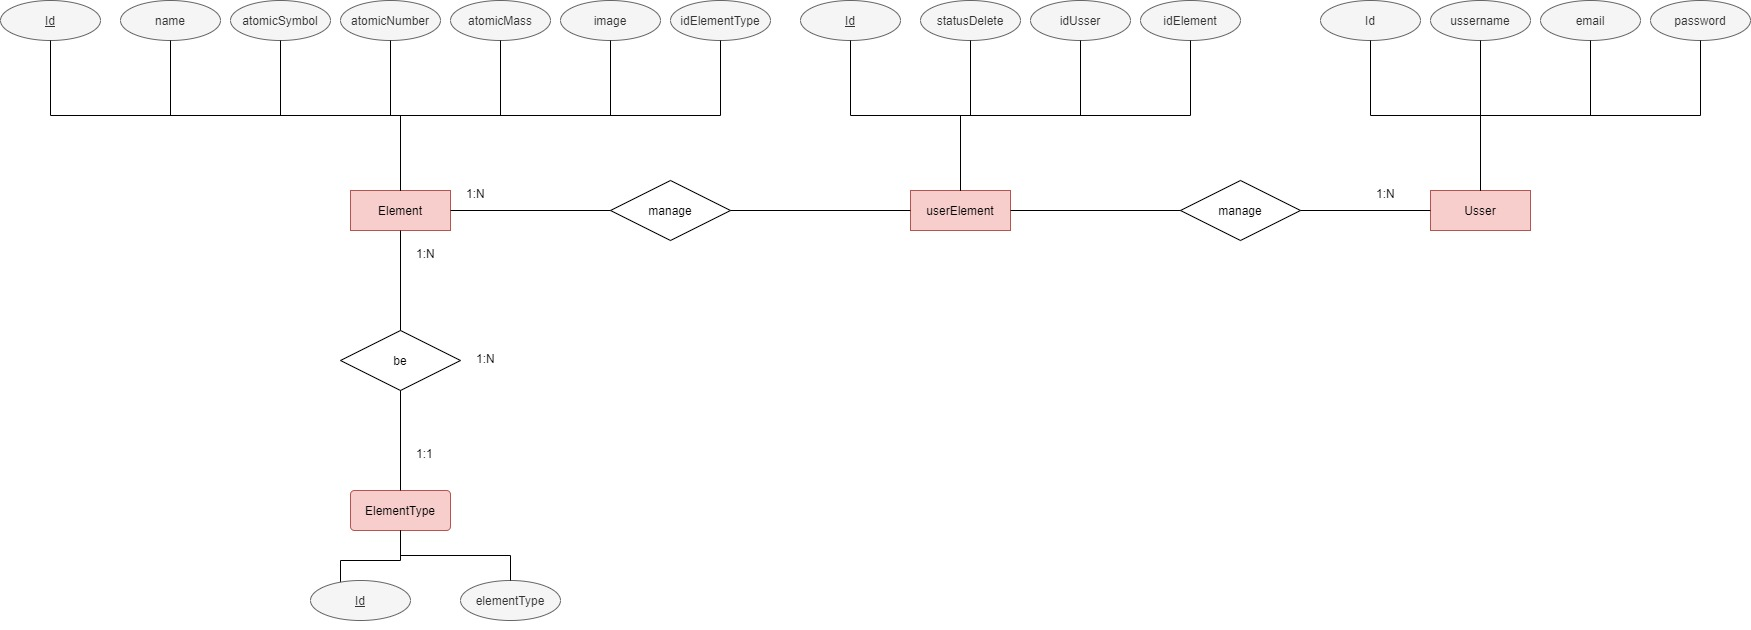
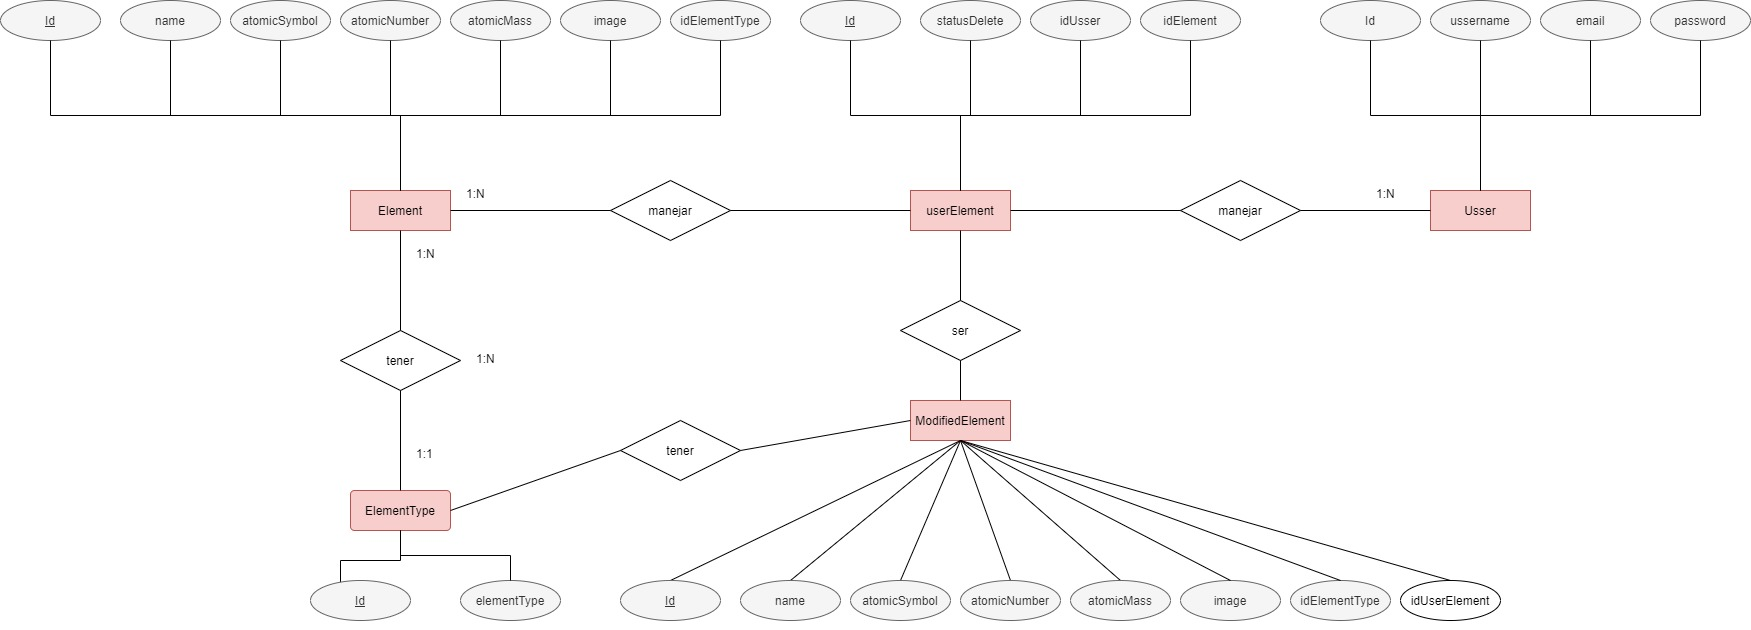
Modificados los endpoints para userElement. Agregado modified.js. Agregada una tabla al diagrama de BBDD

diff --git a/Backend-Tabla/controllers/userElements.js b/Backend-Tabla/controllers/userElements.js
@@ -1,3 +1,4 @@
+
 const  sequelize  = require('sequelize');
 const Op  =sequelize.Op;
 
@@ -5,6 +6,7 @@ const db = require('../models/index');
 const userElement = db.userElement;
 const element = db.element;
 const elementType = db.elementType;
+const modified = db.modified;
 exports.createElement = async (req,res) =>{
     try {
         const {body} = req;
@@ -58,14 +60,24 @@ exports.getElementsPro = async (req,res) =>{
                     statusDelete:false,
                 }
             });
-            
             const elements = [];
+            let findModi;
             for (let i = 0; i < userElements.length; i++) {
-                elements[i]= await element.findByPk(userElements[i].elementId,{
-                    include:{model:elementType},
+                findModi = await modified.findOne({
+                    where:{userElementId:userElements[i].id},
+                    include:{model:elementType}
                 });
-    
+                if(!findModi){
+                    elements[i]= await element.findByPk(userElements[i].elementId,{
+                        include:{model:elementType},
+                    });
+        
+                }else{
+                    elements[i] = findModi;
+                }
+                
             }
+            
             
             const errors = {
                 1 :" No se encontró ese dato del elemento",
@@ -83,28 +95,43 @@ exports.getElementsPro = async (req,res) =>{
                 return res.status(404).send({message: errors[result]})
             }
         }
-        //127.0.0.1:3000/api/userElement?busqueda=Hidrógeno&Oxígeno&...
-        const {busqueda} = req.query;
+        //127.0.0.1:3000/api/userElement?busqueda=Hidrógeno&busqueda=Oxígeno&...
+        const {busqueda} = req.query;    
         if(busqueda){
-            const result=await obtenerVariosValores(busqueda);
+            const result=await obtenerVariosValores(busqueda,user.id);
+            return res.status(200).send(result);
         }
-        
+        console.log("a");
+
         ////127.0.0.1:3000/api/userElement
-        const elements = await userElement.findAll({
+        const findUE = await userElement.findAll({
             where:{
                 userId:user.id,
                 statusDelete:false,
             },
         });
-        console.log(elements)
+        
         const get = [];
-        for (let i = 0; i < elements.length; i++) {
-                get[i]= await element.findByPk(elements[i].elementId,{
+        let findModi;
+
+        for (let i = 0; i < findUE.length; i++) {
+                findModi = await modified.findOne({
+                    where:{userElementId:findUE[i].id,
+                          statusDelete:false},
                     include:{model:elementType},
                 });
+                
+                if(!findModi){
+                    get[i]= await element.findByPk(findUE[i].elementId,{
+                        include:{model:elementType},
+                    });
+                }else{
+                    get[i] = findModi;
+                }
+                
     
         }
-        const ordElements = await ordenNumAtomico('ASC',get)
+        const ordElements = await ordenNumAtomico('ASC',get);
         return res.status(200).send(ordElements);
 
     } catch (error) {
@@ -125,40 +152,136 @@ exports.getElementsNr = async (req,res) =>{
         
     }
 }
-async function obtenerVariosValores(busqueda){
+async function obtenerVariosValores(busqueda,idUser){
     const result=[];
-    for (let i = 0; i < busqueda.length; i++) {
-        let find = await element.findOne({
-            where:{name:busqueda[i]}
+   
+    if(typeof busqueda !== 'string'){
+        for (let i = 0; i < busqueda.length; i++) {
+            let findModi = await modified.findOne({
+                where:{name:busqueda[i],statusDelete:false},
+                include:{model:elementType}
+            });
+           
+             if(!findModi){
+                let find = await element.findOne({
+                    where:{name:busqueda[i]},
+                    include:{model:elementType},
+                });
+                
+                let find2 = await userElement.findOne({
+                    where:{statusDelete:false,
+                        elementId:find.id,
+                        userId:idUser},
+                }) 
+                if(find2){
+                    result[i] = find;
+                }else{
+                    result[i] = {message:"No es encontró " + busqueda[i] + " entre tus elementos"};
+                }
+            }else{
+                console.log(findModi.userElementId)
+                let find2 = await userElement.findOne({
+                    where:{statusDelete:false,
+                        id:findModi.userElementId,
+                        userId:idUser},
+                }) 
+                if(find2){
+                    result[i] = findModi;
+                }else{
+                    result[i] = {message:"No es encontró " + busqueda[i] + " entre tus elementos"};
+                }
+            }
+        }
+    }else{
+        let findModi = await modified.findOne({
+            where:{name:busqueda,statusDelete:false},
+            include:{model:elementType}
         });
-        let find2 = await userElement.findOne({
-            where:{statusDelete:false,
-                elementId:find.id},
-        })
-        if(find2){
-            result[i] = find2;
+       
+        if(!findModi){
+            let find = await element.findOne({
+                where:{name:busqueda},
+                include:{model:elementType},
+            });
+          
+            let find2 = await userElement.findOne({
+                where:{statusDelete:false,
+                    elementId:find.id,
+                    userId:idUser},
+            }) 
+            console.log(find2);
+            if(find2){
+                result[0] = find;
+            }else{
+                result[0] = {message:"No es encontró " + busqueda + " entre tus elementos"};
+            }
         }else{
-            result[i] = {message:"No es encontró " + busqueda[i] + " entre tus elementos"};
+            let find2 = await userElement.findOne({
+                where:{statusDelete:false,
+                    id:findModi.userElementId,
+                    userId:idUser},
+            }); 
+            if(find2){
+                result[0] = findModi;
+            }else{
+                result[0] = {message:"No es encontró " + busqueda[i] + " entre tus elementos"};
+            }
         }
     }
-    return result;
+  return result;
 }
 //127.0.0.1:3000/api/userElement/Hidrógeno
 exports.putElement = async ( req,res) =>{
     try {
         const {body,params} = req;
         if(!params.name) return res.status(404).send({message:"Se requiere name"});
-        if(!body.position) return res.status(404).send({message: "Se requiere la position a donde será cambiado el elemento"});
-        if(body.position <= 0 && body.position >= 119) return res.status(500).send("Se debe colocar un número entre el 1 al 118");
-        const find = await userElement.findOne({
-            name : params,
+        if(!body) return res.status(404).send({message: "Se requieren los atributos del elemento a cambiar"});
+        const find = await element.findOne({where:{name:params.name}});
+        if(!find) return res.status(404).send({message: "No se encontró el elemento"});
+        const findUE = await userElement.findOne({where:{
+            userId : req.user.id,
+            elementId:find.id,
+            statusDelete: false,
+            },
         });
-        const a = find.elementId;
-        find.elementId = body.position;
-        find.save();
-        const find2 = await userElement.findByPk(body.position);
-        find2.elementId = a;
-        find2.save();
+        console.log(findUE);
+
+        if(!findUE) return res.status(404).send({message:"No se encontró entre tus elementos"});
+        if(!body.name) return res.stauts(404).send({message:"Se requiere el nombre"});
+        if(!body.atomicNumber) return res.stauts(404).send({message:"Se requiere el nombre"});
+        if(!body.atomicMass) return res.stauts(404).send({message:"Se requiere el nombre"});
+        if(!body.period) return res.stauts(404).send({message:"Se requiere el nombre"});
+        if(!body.atomicSymbol) return res.stauts(404).send({message:"Se requiere el nombre"});
+        if(!body.group) return res.stauts(404).send({message:"Se requiere el nombre"});
+        if(!body.elementTypeId) return res.status(404).send({message:"Se erequiere el elementTypeId"});
+
+        const findModi = await modified.findOne({where:{userElementId:findUE.id}});
+
+        if(findModi){
+            findModi.name = body.name;
+            findModi.atomicNumber= body.atomicNumber;
+            findModi.atomicMass = body.atomicMass;
+            findModi.period = body.period;
+            findModi.atomicSymbol = body.atomicSymbol;
+            findModi.group = body.group;
+            findModi.elementTypeId = body.elementTypeId;
+            findModi.statusDelete = false;
+            findModi.save();
+        }else{
+            console.log("a");
+            const create = await modified.create({
+            name: body.name,
+            atomicSymbol:body.atomicSymbol,
+            atomicNumber: body.atomicNumber,
+            atomicMass: body.atomicMass,
+            group: body.group,
+            period: body.period,
+            elementTypeId: body.elementTypeId,
+            image: findUE.imagen,
+            userElementId: findUE.id,
+            });
+        }
+      
 
         
         return res.status(200).send({message:"Modificado"});
@@ -172,16 +295,7 @@ exports.deleteElement = async (req,res) =>{
         const {name} = req.params;
         const {user} = req.user;
         if(!name) return res.status(404).send({message: "Es necesario el nombre para eliminar"});
-        if(name === 'All'){
-            const uS = await userElement.findAll({where:{statusDelete:false,userId:user.id}});
-            for (let i = 0; i < uS.length; i++) {
-                uS[i].statusDelete =true;
-                
-            }
-            uS.save();
-            return res.status(200).send({message:"Eliminados todos los elementos"});
-  
-        }
+       
         const find = await element.findOne({
             where:{
 
@@ -197,6 +311,11 @@ exports.deleteElement = async (req,res) =>{
         });
         if(find2.statusDelete === true) return res.status(404).send({message:"No se encontró elemento."});
         find2.statusDelete = true;
+        const findModi = await modified.findOne({where:{idUserElement:find.id}});
+        if(findModi){
+            modified.statusDelete = true;
+            findModi.save();
+        }
         find2.save();
         return res.status(200).send({message:"Eliminado"});
     } catch (error) {

diff --git a/Backend-Tabla/routes/routes.js b/Backend-Tabla/routes/routes.js
@@ -8,6 +8,8 @@ const type = require('../controllers/elementTypes');
 const middleware = require("../middleware/authorization");
 const elements = require('../controllers/elements');
 const userElement = require('../controllers/userElements');
+const modified = require('../controllers/modified');
+const atributes = require('../controllers/atributes');
 //rutas para users
 router.route('/users').post(users.createUser);
 //rutas para generalities
@@ -24,5 +26,8 @@ router.route("/login").post(generalities.login);
 router.route("/userElement").post(middleware.verifyToken,userElement.createElement).get(middleware.verifyToken,userElement.getElementsPro);
 router.route("/userElement/:name").put(middleware.verifyToken,userElement.putElement).delete(middleware.verifyToken,userElement.deleteElement);
 router.route("/userElementNr").get(userElement.getElementsNr);
+
+//rutas para modified
+
 module.exports = router;
 

diff --git a/Backend-Tabla/models/index.js b/Backend-Tabla/models/index.js
@@ -14,6 +14,8 @@ db.user = require('./user')(sequelize,Sequelize);
 db.elementType = require('./elementType')(sequelize,Sequelize);
 db.element = require('./element')(sequelize,Sequelize);
 db.userElement = require('./userElement')(sequelize,Sequelize);
+db.modified = require('./modified')(sequelize,Sequelize);
+
 
 db.elementType.hasMany(db.element);
 db.element.belongsTo(db.elementType);
@@ -21,6 +23,10 @@ db.user.hasMany(db.userElement);
 db.userElement.belongsTo(db.user);
 db.element.hasMany(db.userElement);
 db.userElement.belongsTo(db.element);
+db.userElement.hasMany(db.modified);
+db.modified.belongsTo(db.userElement);
+db.elementType.hasMany(db.modified);
+db.modified.belongsTo(db.elementType);
 
 
 module.exports = db;

diff --git a/Backend-Tabla/models/modified.js b/Backend-Tabla/models/modified.js
@@ -1,0 +1,31 @@
+module.exports = (sequelize,Sequelize) =>{
+    const Modify = sequelize.define('modifiedElement',{
+        name:{
+            type: Sequelize.STRING,
+        },
+        atomicSymbol:{
+            type: Sequelize.STRING,
+        },
+        atomicNumber:{
+            type: Sequelize.INTEGER,
+        },
+        atomicMass:{
+            type: Sequelize.FLOAT,
+        },
+        period:{
+           type: Sequelize.INTEGER 
+        },
+        group:{
+            type:Sequelize.INTEGER,
+        },
+        image:{
+            type: Sequelize.STRING,
+        },
+        statusDelete:{
+            type: Sequelize.BOOLEAN,
+            defaultValue:false,
+        }
+
+    });
+    return Modify;
+}

diff --git a/Backend-Tabla/controllers/users.js b/Backend-Tabla/controllers/users.js
@@ -29,6 +29,15 @@ exports.createUser = async (req,res) =>{
         return res.status(500).send(error.message);
     }
 };
+async function createUserElements(userId,elements){
+    for (let i = 0; i < elements.length; i++) {
+        let create = await userElement.create({
+            elementId: elements[i].id,
+            userId: userId,
+        });
+        
+    }
+}
 
 
 
